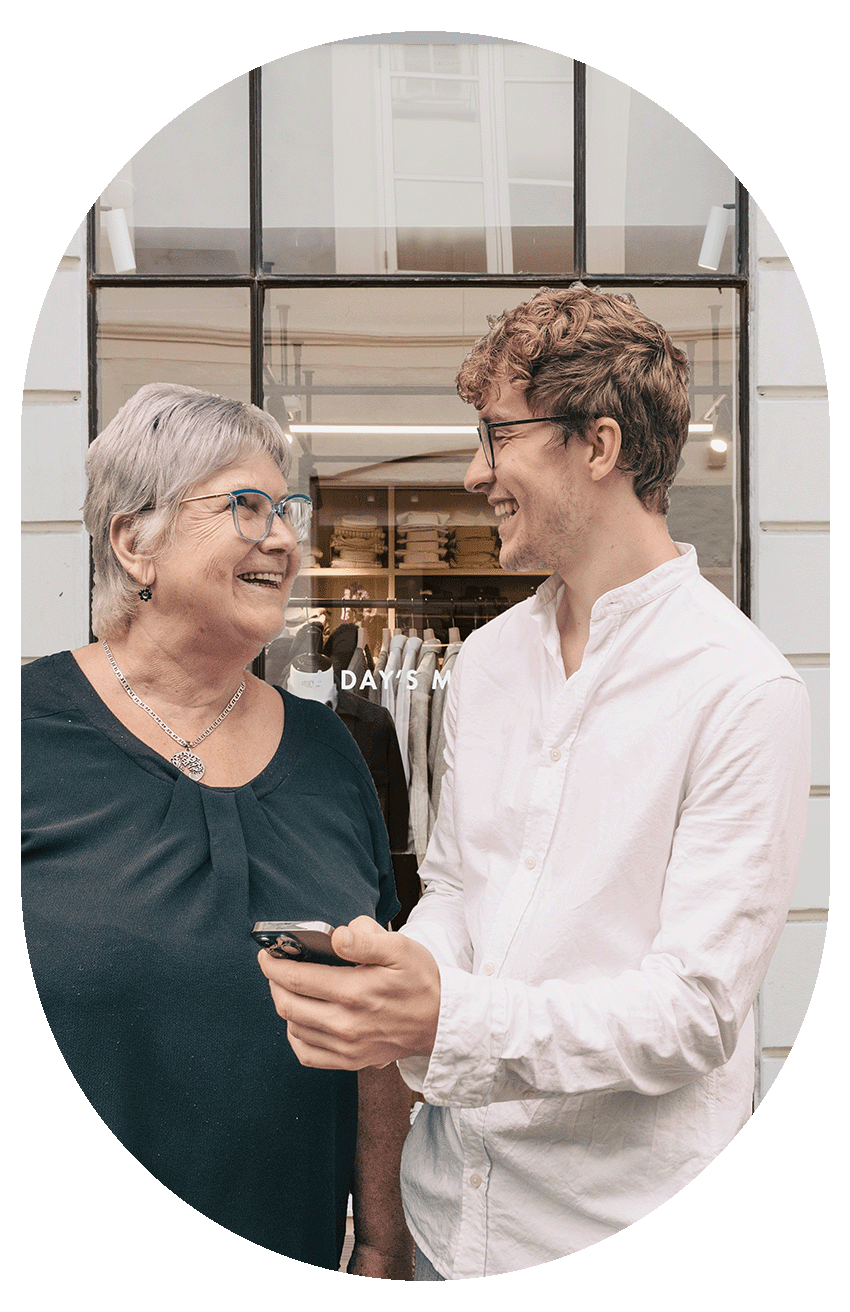
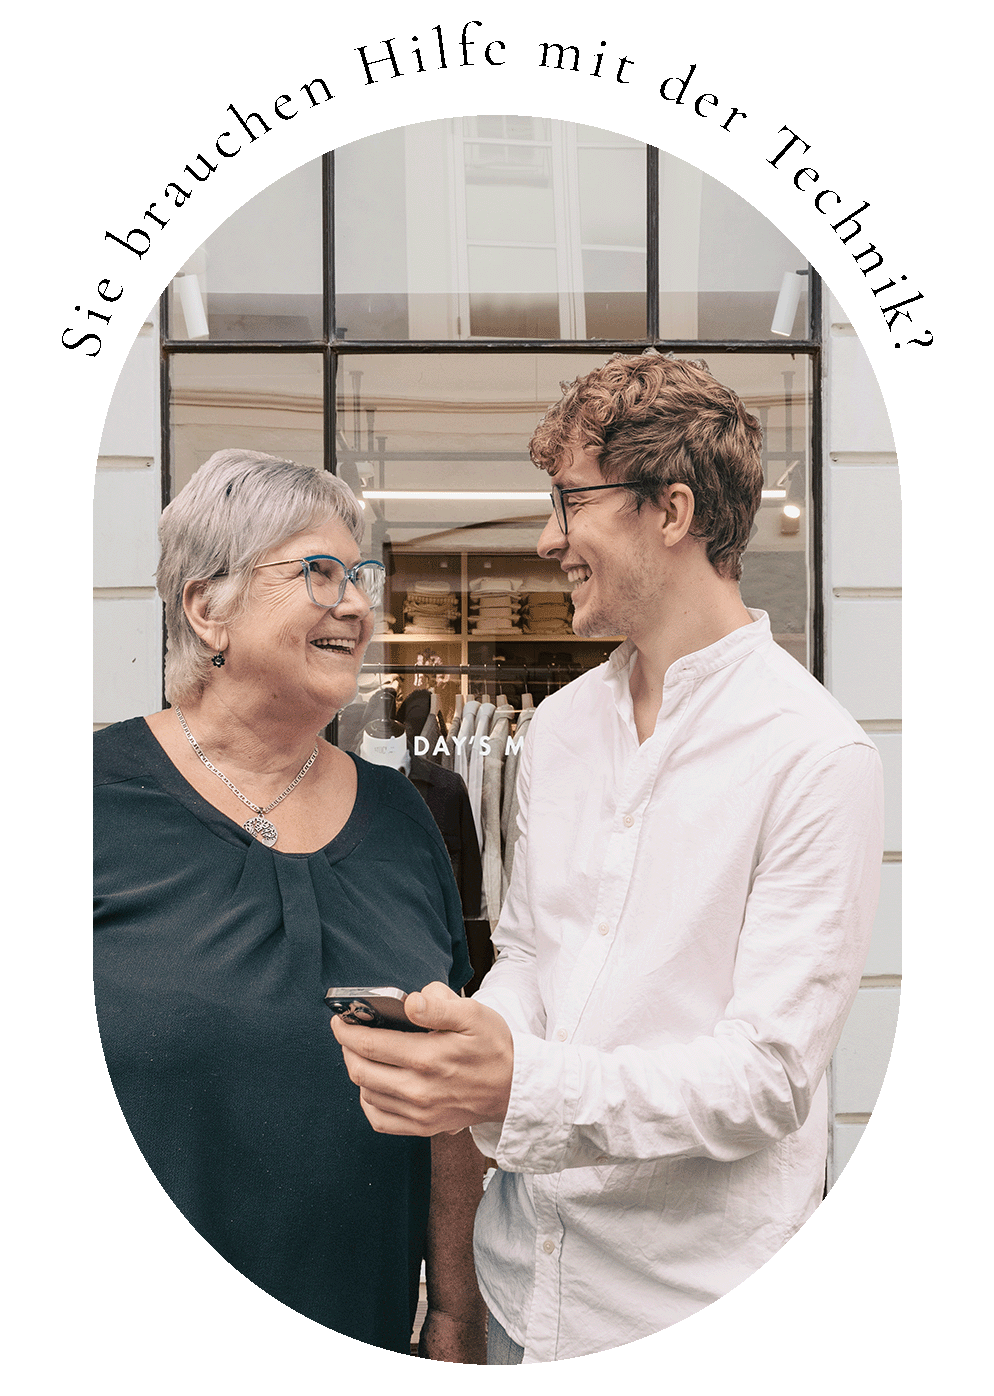
changedthe image

diff --git a/index.html b/index.html
@@ -53,13 +53,10 @@ seo:
 <!------------------------  Banner Phone  ------------------------>
 <section class="grid-spaceAround center show-sm z-high">
     <div class="col-12 center">
-            <h1 id="demo1">Sie brauchen Hilfe mit der Technik?</h1>
-
-
             <picture>
-                <source type="image/webp" srcset="images/banner-phone.webp">
+                 <source type="image/webp" srcset="images/banner-phone.webp">
                 <source type="image/png" srcset="images/banner-phone.png">
-                <img alt="Technische Hilfe Telefon" class="banner-phone margin-t-1 lazy" data-src="/images/banner-phone.png" width="80%">
+                <img alt="Technische Hilfe Telefon" class="banner-phone  lazy" data-src="/images/banner-phone.png" width="80%">
             </picture>
     </div>
 </section>
